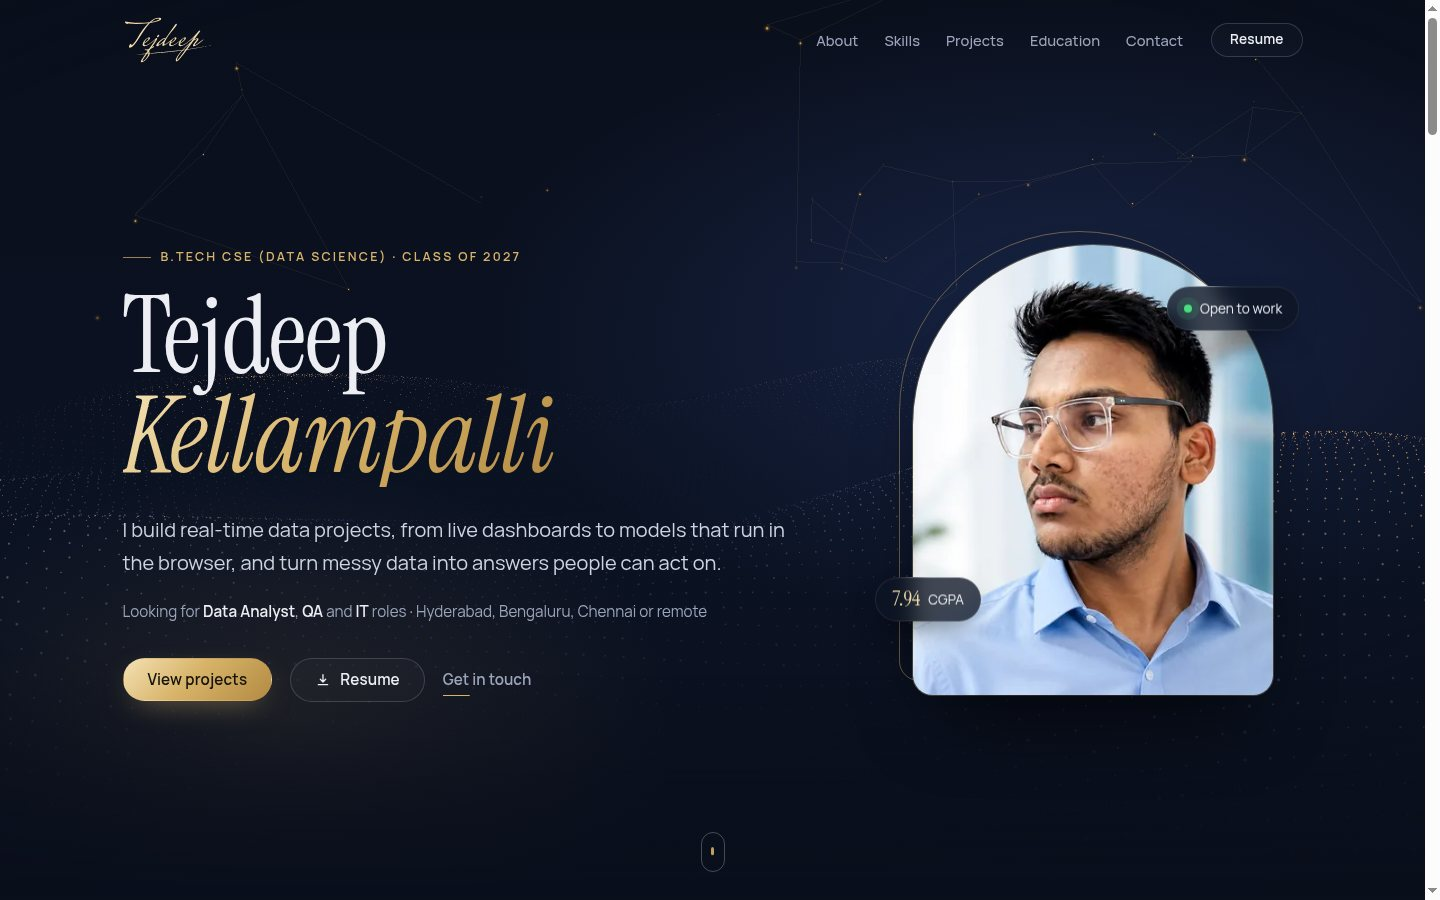
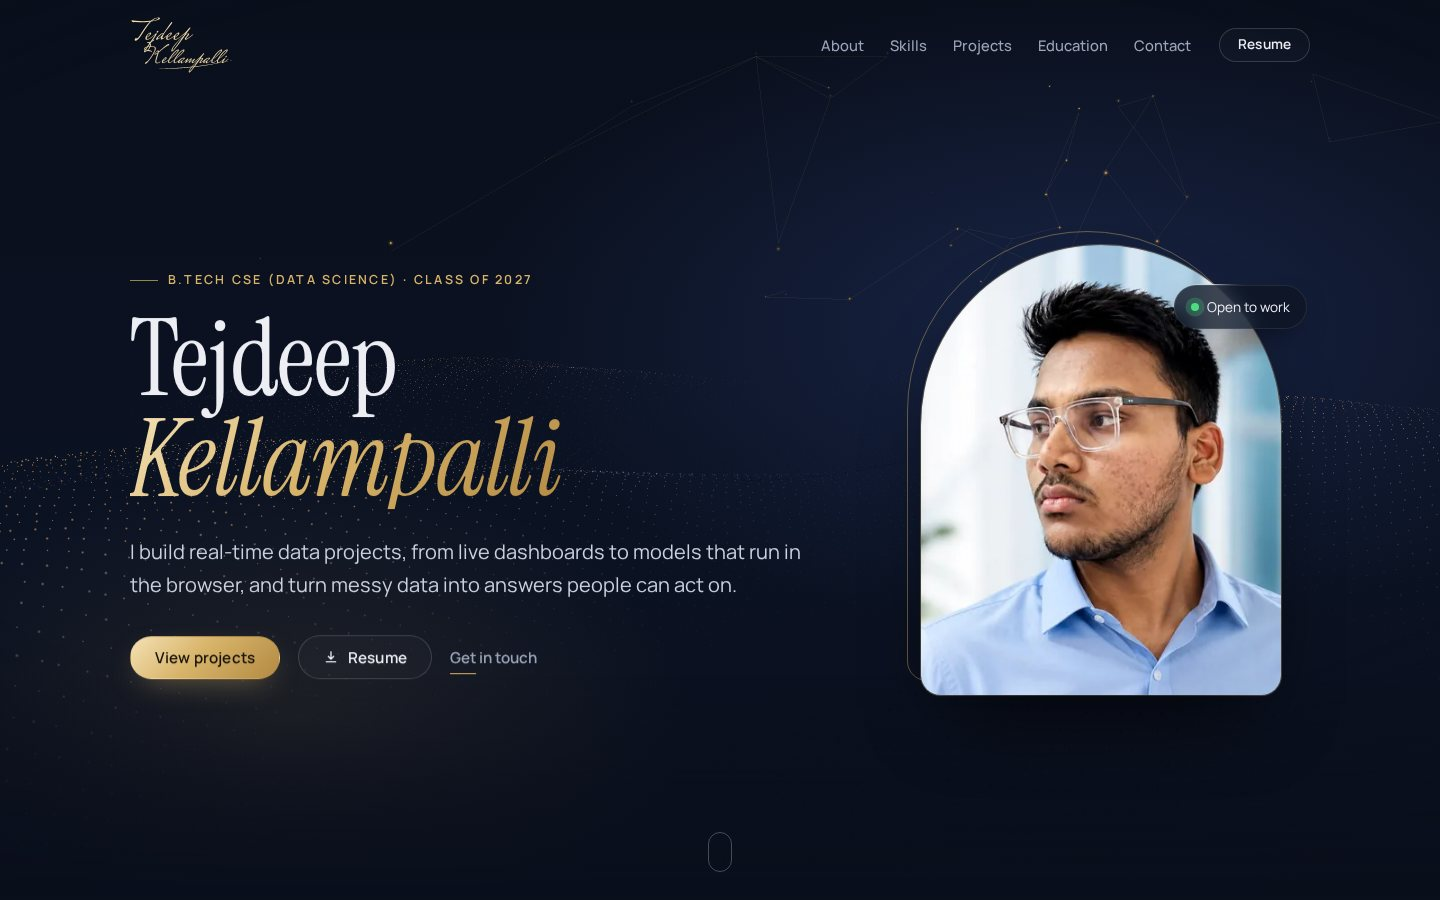
readme: two line signature, new screenshots

diff --git a/README.md b/README.md
@@ -8,7 +8,7 @@ My personal website: who I am, the projects I've built, skills, education and ho
 
 ## What's in it
 
-- A short intro where my name gets written out like a signature, then moves up into the navbar (plays once per visit, you can skip it, and it's off if your system has reduced motion turned on)
+- A short intro where my name gets written out like a signature (Tejdeep, then Kellampalli under it), then moves up into the navbar (plays once per visit, you can skip it, and it's off if your system has reduced motion turned on)
 - A 3D background in the hero made with Three.js: a wavy field of points that reacts to the mouse (or phone tilt) and scrolling
 - Featured projects (Safe Roads, AirPulse, NiftyLens) and smaller cards for the rest, with live demo and code links
 - Skills, education, certifications and contact links, plus my resume as a PDF
@@ -36,11 +36,11 @@ All project cards come from `src/data/projects.json` (name, description, links, 
 
 ## The signature
 
-The signature isn't a font on the page. `tools/signature/` takes the outline of the word "Tejdeep" from a script font (opentype.js), finds the centre line of the letters (skeletonize in scikit-image) and orders the pen strokes the way you'd write them. The site uses those strokes as a mask and animates `stroke-dashoffset`, so the ink appears stroke by stroke. `npm run signature` rebuilds `src/data/signature.json`.
+The signature isn't a font on the page. `tools/signature/` takes the outlines of "Tejdeep" and "Kellampalli" from a script font (opentype.js), finds the centre line of the letters (skeletonize in scikit-image) and orders the pen strokes the way you'd write them. The surname is set a little smaller on a second line, moved right so the K sits under the j, and gets a thin extra stroke so both words have about the same ink weight. Strokes that continue where the last one ended are drawn as one pen movement, so the whole thing takes about 3.5 seconds. The site uses those strokes as a mask and animates `stroke-dashoffset`, so the ink appears stroke by stroke. `npm run signature` rebuilds `src/data/signature.json`.
 
 ## Deploy
 
-Hosted on Netlify. `netlify.toml` has the settings: build command `npm run build`, publish directory `dist`.
+Hosted on Netlify. `netlify.toml` has the settings: build command `npm ci && npm run build`, publish directory `dist`.
 
 ## Credits
 
